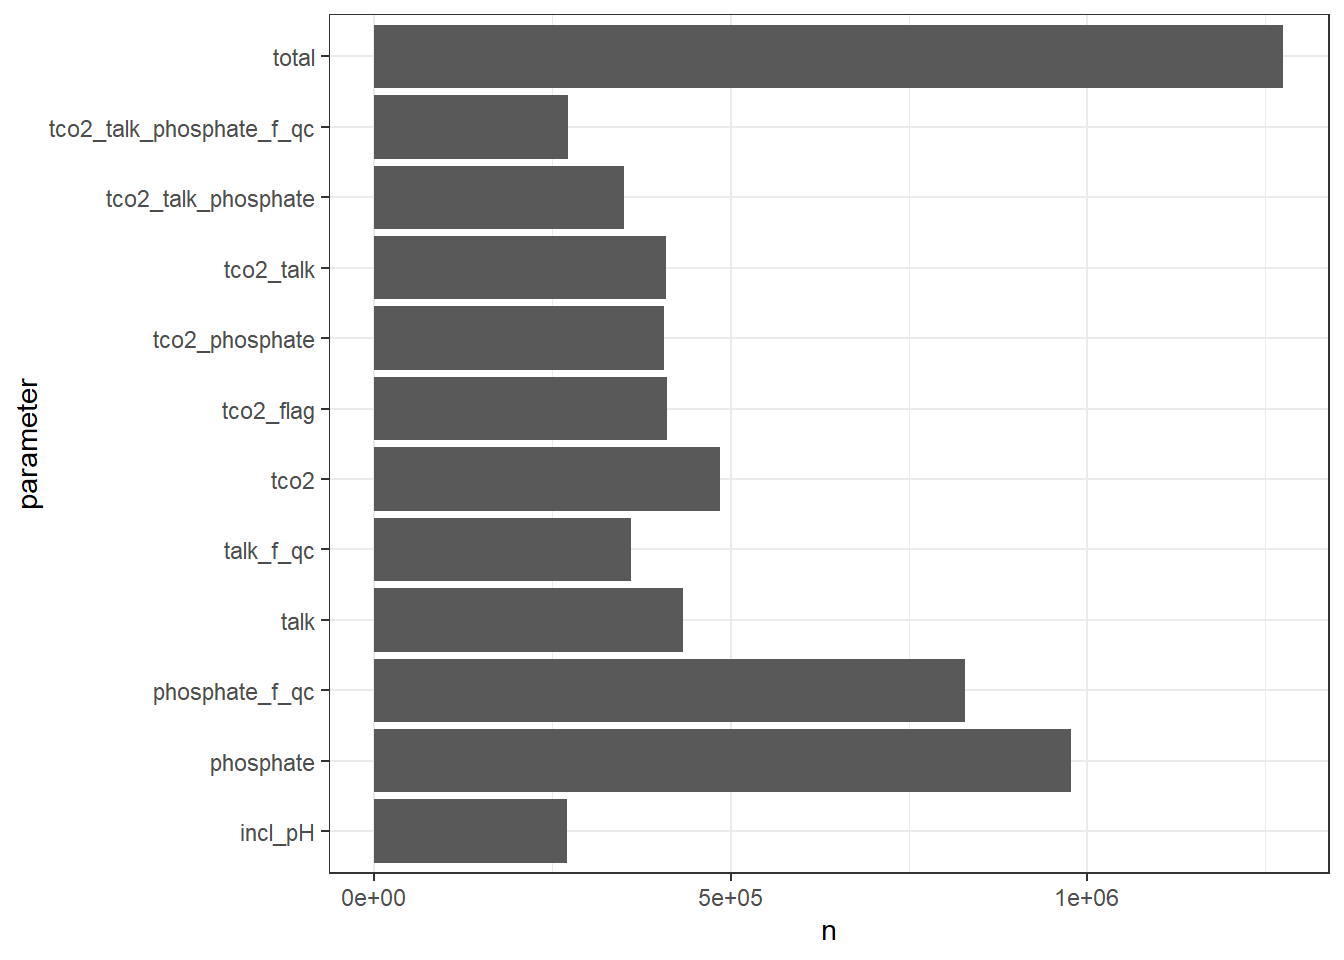
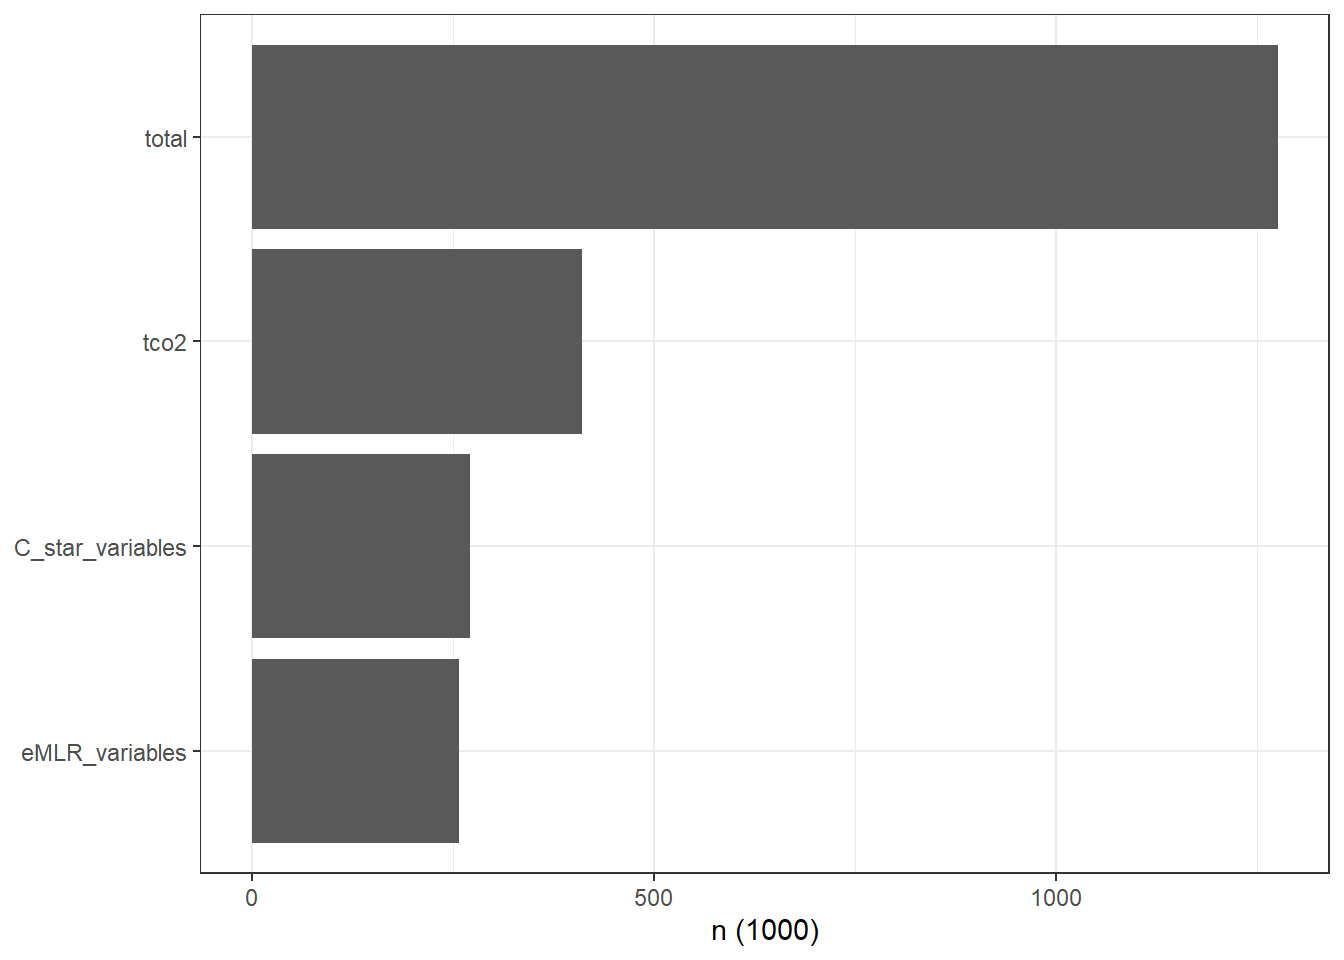
Build site.

diff --git a/docs/data_base.html b/docs/data_base.html
@@ -365,7 +365,7 @@ $(document).ready(function () {
 </p>
 <p>
 This reproducible <a href="http://rmarkdown.rstudio.com">R Markdown</a> analysis was created with <a
-  href="https://github.com/jdblischak/workflowr">workflowr</a> (version 1.6.1). The <em>Checks</em> tab describes the reproducibility checks that were applied when the results were created. The <em>Past versions</em> tab lists the development history.
+  href="https://github.com/jdblischak/workflowr">workflowr</a> (version 1.6.2). The <em>Checks</em> tab describes the reproducibility checks that were applied when the results were created. The <em>Past versions</em> tab lists the development history.
 </p>
 <hr>
 </div>
@@ -446,16 +446,16 @@ This reproducible <a href="http://rmarkdown.rstudio.com">R Markdown</a> analysis
 <div class="panel panel-default">
 <div class="panel-heading">
 <p class="panel-title">
-<a data-toggle="collapse" data-parent="#workflowr-checks" href="#strongRepositoryversionstrongahrefhttpsgithubcomjensdanielmuellerCanteMLRtree60e80d33f7cc74b45b1357b6f7d46c5bfcb63277targetblank60e80d3a"> <span class="glyphicon glyphicon-ok text-success" aria-hidden="true"></span> <strong>Repository version:</strong> <a href="https://github.com/jens-daniel-mueller/Cant_eMLR/tree/60e80d33f7cc74b45b1357b6f7d46c5bfcb63277" target="_blank">60e80d3</a> </a>
+<a data-toggle="collapse" data-parent="#workflowr-checks" href="#strongRepositoryversionstrongahrefhttpsgithubcomjensdanielmuellerCanteMLRtree0e17433800f61a2507f46094251f3578a0e3a865targetblank0e17433a"> <span class="glyphicon glyphicon-ok text-success" aria-hidden="true"></span> <strong>Repository version:</strong> <a href="https://github.com/jens-daniel-mueller/Cant_eMLR/tree/0e17433800f61a2507f46094251f3578a0e3a865" target="_blank">0e17433</a> </a>
 </p>
 </div>
[2 lines of base64/hex data omitted]
 <div class="panel-body">
 <p>
 Great! You are using Git for version control. Tracking code development and connecting the code version to the results is critical for reproducibility.
 </p>
 <p>
-The results in this page were generated with repository version <a href="https://github.com/jens-daniel-mueller/Cant_eMLR/tree/60e80d33f7cc74b45b1357b6f7d46c5bfcb63277" target="_blank">60e80d3</a>. See the <em>Past versions</em> tab to see a history of the changes made to the R Markdown and HTML files.
+The results in this page were generated with repository version <a href="https://github.com/jens-daniel-mueller/Cant_eMLR/tree/0e17433800f61a2507f46094251f3578a0e3a865" target="_blank">0e17433</a>. See the <em>Past versions</em> tab to see a history of the changes made to the R Markdown and HTML files.
 </p>
 <p>
 Note that you need to be careful to ensure that all relevant files for the analysis have been committed to Git prior to generating the results (you can use <code>wflow_publish</code> or <code>wflow_git_commit</code>). workflowr only checks the R Markdown file, but you know if there are other scripts or data files that it depends on. Below is the status of the Git repository when the results were generated:
@@ -463,8 +463,8 @@ Note that you need to be careful to ensure that all relevant files for the analy
 <pre><code>
 Ignored files:
     Ignored:    .Rproj.user/
-    Ignored:    data/GLODAPv2/
-    Ignored:    data/_summarized_data_files/
+    Ignored:    data/GLODAPv2_2020/
+    Ignored:    data/World_Ocean_Atlas_2018/
     Ignored:    data/pCO2_atmosphere/
     Ignored:    dump/
     Ignored:    output/plots/
@@ -506,6 +506,40 @@ Message
 </tr>
 </thead>
 <tbody>
+<tr>
+<td>
+Rmd
+</td>
+<td>
+<a href="https://github.com/jens-daniel-mueller/Cant_eMLR/blob/0e17433800f61a2507f46094251f3578a0e3a865/analysis/data_base.Rmd" target="_blank">0e17433</a>
+</td>
+<td>
+jens-daniel-mueller
+</td>
+<td>
+2020-07-14
+</td>
+<td>
+revised data cleaning and summary stats
+</td>
+</tr>
+<tr>
+<td>
+html
+</td>
+<td>
+<a href="https://rawcdn.githack.com/jens-daniel-mueller/Cant_eMLR/0c9464a3727e1cd5192f19c107dac62eae9c9847/docs/data_base.html" target="_blank">0c9464a</a>
+</td>
+<td>
+jens-daniel-mueller
+</td>
+<td>
+2020-07-14
+</td>
+<td>
+Build site.
+</td>
+</tr>
 <tr>
 <td>
 Rmd
@@ -873,12 +907,15 @@ read GLODAPv2_2020
 <pre class="r"><code>library(tidyverse)
 library(lubridate)
 library(patchwork)</code></pre>
-<div id="read-glodap-master-file" class="section level1">
-<h1><span class="header-section-number">1</span> Read GLODAP master file</h1>
+<div id="glodapv2.2020" class="section level1">
+<h1><span class="header-section-number">1</span> GLODAPv2.2020</h1>
+<div id="read-master-file" class="section level2">
+<h2><span class="header-section-number">1.1</span> Read master file</h2>
 <ul>
 <li>Data source: <code>GLODAPv2.2020_Merged_Master_File.csv</code> from <a href="https://www.glodap.info/">glodap.info</a></li>
 </ul>
-<pre class="r"><code>GLODAP &lt;- read_csv(here::here(&quot;data&quot;, &quot;GLODAPv2.2020_Merged_Master_File.csv&quot;),
+<pre class="r"><code>GLODAP &lt;- read_csv(here::here(&quot;data/GLODAPv2_2020/Merged_data_product&quot;,
+                              &quot;GLODAPv2.2020_Merged_Master_File.csv&quot;),
                    na = &quot;-9999&quot;,
                    col_types = cols(.default = col_double()))
 
@@ -896,41 +933,9 @@ GLODAP &lt;- GLODAP %&gt;%
             maxsampdepth, pressure,
             theta, sigma0:gamma,
             nitrate:nitritef))</code></pre>
-<pre class="r"><code>GLODAP_stats &lt;- GLODAP %&gt;% 
-  summarise(total = n(),
-            tco2 = sum(!is.na(tco2)),
-            tco2_flag = sum(!is.na(tco2) &amp; tco2f == 2 &amp; tco2qc == 1),
-            talk = sum(!is.na(talk)),
-            talk_f_qc = sum(!is.na(talk) &amp; talkf == 2 &amp; talkqc == 1),
-            phosphate = sum(!is.na(phosphate)),
-            phosphate_f_qc = sum(!is.na(phosphate) &amp; phosphatef == 2 &amp; phosphateqc == 1))
-
-GLODAP_stats_2 &lt;- GLODAP %&gt;% 
-  summarise(tco2_talk = sum(!is.na(tco2) &amp; !is.na(talk)),
-            tco2_phosphate = sum(!is.na(tco2) &amp; !is.na(phosphate)),
-            tco2_talk_phosphate = sum(!is.na(tco2) &amp; !is.na(talk) &amp; !is.na(phosphate)),
-            tco2_talk_phosphate_f_qc = sum(!is.na(tco2) &amp; !is.na(talk) &amp; !is.na(phosphate) &amp;
-                                        tco2f == 2 &amp; tco2qc == 1 &amp;
-                                        talkf == 2 &amp; talkqc == 1 &amp;
-                                        phosphatef == 2 &amp; phosphateqc == 1),
-           incl_pH = sum(!is.na(tco2) &amp; !is.na(talk) &amp; !is.na(phosphate) &amp;
-                                        tco2f == 2 &amp; tco2qc == 1 &amp;
-                                        talkf == 2 &amp; talkqc == 1 &amp;
-                                        phosphatef == 2 &amp; phosphateqc == 1 &amp;
-                                        !is.na(phts25p0)))
-
-GLODAP_stats &lt;- cbind(GLODAP_stats, GLODAP_stats_2)
-
-rm(GLODAP_stats_2)
-
-GLODAP_stats_long &lt;- GLODAP_stats %&gt;% 
-  pivot_longer(1:12, names_to = &quot;parameter&quot;, values_to = &quot;n&quot;)
-
-GLODAP_stats_long  %&gt;%  write_csv(here::here(&quot;data/_summarized_data_files&quot;,
-                                             &quot;GLODAPv2.2020_stats.csv&quot;))</code></pre>
 </div>
-<div id="clean-data" class="section level1">
-<h1><span class="header-section-number">2</span> Clean data</h1>
+<div id="clean-data" class="section level2">
+<h2><span class="header-section-number">1.2</span> Clean data</h2>
 <ul>
 <li>subsetted rows with
 <ul>
@@ -939,7 +944,10 @@ GLODAP_stats_long  %&gt;%  write_csv(here::here(&quot;data/_summarized_data_file
 <li>flag qc: 1</li>
 </ul></li>
 </ul>
-<pre class="r"><code>GLODAP &lt;- GLODAP %&gt;% 
+<pre class="r"><code>GLODAP_stats &lt;- GLODAP %&gt;% 
+  summarise(total = n())
+
+GLODAP &lt;- GLODAP %&gt;% 
   filter(!is.na(tco2))
 
 GLODAP &lt;- GLODAP %&gt;% 
@@ -949,6 +957,12 @@ GLODAP &lt;- GLODAP %&gt;%
 GLODAP &lt;- GLODAP %&gt;% 
   filter(tco2qc == &quot;1&quot;) %&gt;% 
   select(-tco2qc)
+
+GLODAP_stats_temp &lt;- GLODAP %&gt;% 
+  summarise(tco2 = n())
+
+GLODAP_stats &lt;- cbind(GLODAP_stats, GLODAP_stats_temp)
+rm(GLODAP_stats_temp)
 
 ###
 
@@ -975,6 +989,12 @@ GLODAP &lt;- GLODAP %&gt;%
 GLODAP &lt;- GLODAP %&gt;% 
   filter(phosphateqc == &quot;1&quot;) %&gt;% 
   select(-phosphateqc)
+
+GLODAP_stats_temp &lt;- GLODAP %&gt;% 
+  summarise(C_star_variables = n())
+
+GLODAP_stats &lt;- cbind(GLODAP_stats, GLODAP_stats_temp)
+rm(GLODAP_stats_temp)
 
 ###
 
@@ -1027,41 +1047,62 @@ GLODAP &lt;- GLODAP %&gt;%
 
 GLODAP &lt;- GLODAP %&gt;% 
   filter(aouf == &quot;2&quot;) %&gt;% 
-  select(-aouf)</code></pre>
+  select(-aouf)
+
+GLODAP_stats_temp &lt;- GLODAP %&gt;% 
+  summarise(eMLR_variables = n())
+
+GLODAP_stats &lt;- cbind(GLODAP_stats, GLODAP_stats_temp)
+rm(GLODAP_stats_temp)
+
+
+GLODAP_stats_long &lt;- GLODAP_stats %&gt;% 
+  pivot_longer(1:4, names_to = &quot;parameter&quot;, values_to = &quot;n&quot;)
+
+GLODAP_stats_long  %&gt;%  write_csv(here::here(&quot;data/GLODAPv2_2020/_summarized_data_files&quot;,
+                                             &quot;GLODAPv2.2020_stats.csv&quot;))
+
+rm(GLODAP_stats_long, GLODAP_stats)</code></pre>
+</div>
 </div>
 <div id="assign-reference-eras" class="section level1">
-<h1><span class="header-section-number">3</span> Assign reference eras</h1>
+<h1><span class="header-section-number">2</span> Assign reference eras</h1>
 <p>Samples before Jan 01, 2000 were assigned as to the “JGOFS/WOCE” era, else to “GO-SHIP” era.</p>
 <pre class="r"><code>GLODAP &lt;- GLODAP %&gt;%
   filter(year &gt;= 1981) %&gt;% 
   mutate(era = &quot;JGOFS/WOCE&quot;,
          era = if_else(year &gt;= 2000, &quot;GO-SHIP&quot;, era),
          era = if_else(year &gt;= 2013, &quot;new_era&quot;, era))</code></pre>
-<pre class="r"><code>GLODAP  %&gt;%  write_csv(here::here(&quot;data/_summarized_data_files&quot;,
+<pre class="r"><code>GLODAP  %&gt;%  write_csv(here::here(&quot;data/GLODAPv2_2020/_summarized_data_files&quot;,
                                   &quot;GLODAPv2.2020_clean.csv&quot;))</code></pre>
 </div>
 <div id="overview-glodapv2-2020" class="section level1">
-<h1><span class="header-section-number">4</span> Overview GLODAPv2-2020</h1>
+<h1><span class="header-section-number">3</span> Overview GLODAPv2-2020</h1>
 <div id="nr-of-observations" class="section level2">
-<h2><span class="header-section-number">4.1</span> Nr of observations</h2>
-<pre class="r"><code>GLODAP_stats_long &lt;-  read_csv(here::here(&quot;data/_summarized_data_files&quot;,
+<h2><span class="header-section-number">3.1</span> Nr of observations</h2>
+<pre class="r"><code>GLODAP_stats_long &lt;-  read_csv(here::here(&quot;data/GLODAPv2_2020/_summarized_data_files&quot;,
                                              &quot;GLODAPv2.2020_stats.csv&quot;))
 
+GLODAP_stats_long &lt;- GLODAP_stats_long %&gt;%
+  mutate(parameter = fct_reorder(parameter, n))
+
 GLODAP_stats_long %&gt;% 
-  ggplot(aes(parameter, n))+
+  ggplot(aes(parameter, n/1000))+
   geom_col()+
-  coord_flip()</code></pre>
+  coord_flip()+
+  labs(y=&quot;n (1000)&quot;)+
+  theme(axis.title.y = element_blank())</code></pre>
 <p><img src="figure/data_base.Rmd/GLODAP_stats_barplot-1.png" width="672" style="display: block; margin: auto;" /></p>
 <pre class="r"><code>rm(GLODAP_stats_long)</code></pre>
 </div>
 <div id="data-coverage" class="section level2">
-<h2><span class="header-section-number">4.2</span> Data coverage</h2>
+<h2><span class="header-section-number">3.2</span> Data coverage</h2>
 <p>Spatio-temporal distribution of non-flagged, paired <code>talk</code>, <code>tco2</code>, and <code>phosphate</code> data.</p>
-<pre class="r"><code>GLODAP &lt;- read_csv(here::here(&quot;data/_summarized_data_files&quot;,
+<pre class="r"><code>GLODAP &lt;- read_csv(here::here(&quot;data/GLODAPv2_2020/_summarized_data_files&quot;,
                               &quot;GLODAPv2.2020_clean.csv&quot;))</code></pre>
 </div>
 <div id="gridding" class="section level2">
-<h2><span class="header-section-number">4.3</span> Gridding</h2>
+<h2><span class="header-section-number">3.3</span> Gridding</h2>
 <pre class="r"><code>GLODAP &lt;- GLODAP %&gt;% 
   mutate(lat_grid = cut(latitude, seq(-90, 90, 5), seq(-87.5, 87.5, 5)),
          lat_grid = as.numeric(as.character(lat_grid)),
@@ -1092,7 +1133,7 @@ era_median_year &lt;- GLODAP %&gt;%
   ungroup()</code></pre>
 </div>
 <div id="histograms" class="section level2">
-<h2><span class="header-section-number">4.4</span> Histograms</h2>
+<h2><span class="header-section-number">3.4</span> Histograms</h2>
 <pre class="r"><code>GLODAP %&gt;% 
   ggplot(aes(latitude, fill=era))+
   geom_histogram(binwidth = 10, col=&quot;black&quot;, boundary = 0)+
@@ -1109,7 +1150,7 @@ era_median_year &lt;- GLODAP %&gt;%
 <pre class="r"><code>rm(GLODAP_histogram_year)</code></pre>
 </div>
 <div id="hovmoeller-lat-time" class="section level2">
-<h2><span class="header-section-number">4.5</span> Hovmoeller (Lat-time)</h2>
+<h2><span class="header-section-number">3.5</span> Hovmoeller (Lat-time)</h2>
 <pre class="r"><code>GLODAP_hovmoeller_year %&gt;% 
   ggplot(aes(year, lat_grid, fill=log10(n)))+
   geom_vline(xintercept = c(2000, 2013))+
@@ -1119,7 +1160,7 @@ era_median_year &lt;- GLODAP %&gt;%
 <pre class="r"><code>rm(GLODAP_hovmoeller_year)</code></pre>
 </div>
 <div id="maps" class="section level2">
-<h2><span class="header-section-number">4.6</span> Maps</h2>
+<h2><span class="header-section-number">3.6</span> Maps</h2>
 <pre class="r"><code>mapWorld &lt;- borders(&quot;world&quot;, colour=&quot;gray60&quot;, fill=&quot;gray60&quot;)
 
 GLODAP_map_era &lt;- GLODAP_map_era %&gt;% 
@@ -1138,7 +1179,7 @@ GLODAP_map_era %&gt;%
 <pre class="r"><code>rm(GLODAP_map_era)</code></pre>
 </div>
 <div id="individual-cruise-sections" class="section level2">
-<h2><span class="header-section-number">4.7</span> Individual cruise sections</h2>
+<h2><span class="header-section-number">3.7</span> Individual cruise sections</h2>
 <pre class="r"><code>cruises &lt;- GLODAP %&gt;% 
   group_by(cruise) %&gt;% 
   summarise(date_mean = mean(date, na.rm = TRUE),
@@ -1252,14 +1293,14 @@ rm(map,
 </div>
 </div>
 <div id="open-tasks" class="section level1">
-<h1><span class="header-section-number">5</span> Open tasks</h1>
+<h1><span class="header-section-number">4</span> Open tasks</h1>
 <ul>
 <li>remove marginal seas and data north of 65°N</li>
 <li>move A16 cruises from new_era to GO-SHIP era</li>
 </ul>
 </div>
 <div id="questions" class="section level1">
-<h1><span class="header-section-number">6</span> Questions</h1>
+<h1><span class="header-section-number">5</span> Questions</h1>
 <ul>
 <li>exclude coastal area in general?</li>
 </ul>
@@ -1286,27 +1327,26 @@ attached base packages:
 [1] stats     graphics  grDevices utils     datasets  methods   base     
 
 other attached packages:
- [1] patchwork_1.0.0 lubridate_1.7.4 forcats_0.5.0   stringr_1.4.0  
- [5] dplyr_1.0.0     purrr_0.3.4     readr_1.3.1     tidyr_1.0.2    
- [9] tibble_3.0.1    ggplot2_3.3.2   tidyverse_1.3.0 workflowr_1.6.1
+ [1] patchwork_1.0.1 lubridate_1.7.9 forcats_0.5.0   stringr_1.4.0  
+ [5] dplyr_1.0.0     purrr_0.3.4     readr_1.3.1     tidyr_1.1.0    
+ [9] tibble_3.0.3    ggplot2_3.3.2   tidyverse_1.3.0 workflowr_1.6.2
 
 loaded via a namespace (and not attached):
- [1] jsonlite_1.6.1    rstudioapi_0.11   generics_0.0.2    magrittr_1.5     
- [5] farver_2.0.3      gtable_0.3.0      rmarkdown_2.1     vctrs_0.3.0      
- [9] fs_1.4.0          hms_0.5.3         xml2_1.3.0        pillar_1.4.4     
-[13] htmltools_0.5.0   haven_2.2.0       later_1.0.0       broom_0.5.5      
-[17] cellranger_1.1.0  lattice_0.20-41   tidyselect_1.1.0  knitr_1.28       
-[21] git2r_0.26.1      whisker_0.4       lifecycle_0.2.0   pkgconfig_2.0.3  
-[25] R6_2.4.1          digest_0.6.25     xfun_0.12         colorspace_1.4-1 
-[29] rprojroot_1.3-2   stringi_1.4.6     yaml_2.2.1        evaluate_0.14    
-[33] labeling_0.3      fansi_0.4.1       httr_1.4.1        compiler_3.6.3   
-[37] here_0.1          cli_2.0.2         withr_2.1.2       backports_1.1.5  
-[41] munsell_0.5.0     DBI_1.1.0         modelr_0.1.6      Rcpp_1.0.4.6     
-[45] readxl_1.3.1      maps_3.3.0        dbplyr_1.4.2      ellipsis_0.3.1   
-[49] assertthat_0.2.1  tools_3.6.3       reprex_0.3.0      viridisLite_0.3.0
-[53] httpuv_1.5.2      scales_1.1.0      crayon_1.3.4      glue_1.4.1       
-[57] rlang_0.4.6       nlme_3.1-145      rvest_0.3.5       promises_1.1.0   
-[61] grid_3.6.3       </code></pre>
+ [1] jsonlite_1.7.0    rstudioapi_0.11   generics_0.0.2    magrittr_1.5     
+ [5] farver_2.0.3      gtable_0.3.0      rmarkdown_2.3     vctrs_0.3.1      
+ [9] fs_1.4.2          hms_0.5.3         xml2_1.3.2        pillar_1.4.6     
+[13] htmltools_0.5.0   haven_2.3.1       later_1.1.0.1     broom_0.7.0      
+[17] cellranger_1.1.0  tidyselect_1.1.0  knitr_1.29        git2r_0.27.1     
+[21] whisker_0.4       lifecycle_0.2.0   pkgconfig_2.0.3   R6_2.4.1         
+[25] digest_0.6.25     xfun_0.15         colorspace_1.4-1  rprojroot_1.3-2  
+[29] stringi_1.4.6     yaml_2.2.1        evaluate_0.14     labeling_0.3     
+[33] fansi_0.4.1       httr_1.4.1        compiler_3.6.3    here_0.1         
+[37] cli_2.0.2         withr_2.2.0       backports_1.1.5   munsell_0.5.0    
+[41] DBI_1.1.0         modelr_0.1.8      Rcpp_1.0.5        readxl_1.3.1     
+[45] maps_3.3.0        dbplyr_1.4.4      ellipsis_0.3.1    assertthat_0.2.1 
+[49] blob_1.2.1        tools_3.6.3       reprex_0.3.0      viridisLite_0.3.0
+[53] httpuv_1.5.4      scales_1.1.1      crayon_1.3.4      glue_1.4.1       
+[57] rlang_0.4.7       rvest_0.3.5       promises_1.1.1    grid_3.6.3       </code></pre>
 </div>
 </div>
 

diff --git a/docs/site_libs/navigation-1.1/codefolding.js b/docs/site_libs/navigation-1.1/codefolding.js
@@ -17,13 +17,13 @@ window.initializeCodeFolding = function(show) {
   var currentIndex = 1;
 
   // select all R code blocks
-  var rCodeBlocks = $('pre.r, pre.python, pre.bash, pre.sql, pre.cpp, pre.stan, pre.julia');
+  var rCodeBlocks = $('pre.r, pre.python, pre.bash, pre.sql, pre.cpp, pre.stan, pre.julia, pre.foldable');
   rCodeBlocks.each(function() {
 
     // create a collapsable div to wrap the code in
     var div = $('<div class="collapse r-code-collapse"></div>');
-    if (show || $(this)[0].classList.contains('fold-show'))
-      div.addClass('in');
+    show = (show || $(this).hasClass('fold-show')) && !$(this).hasClass('fold-hide');
+    if (show) div.addClass('in');
     var id = 'rcode-643E0F36' + currentIndex++;
     div.attr('id', id);
     $(this).before(div);
